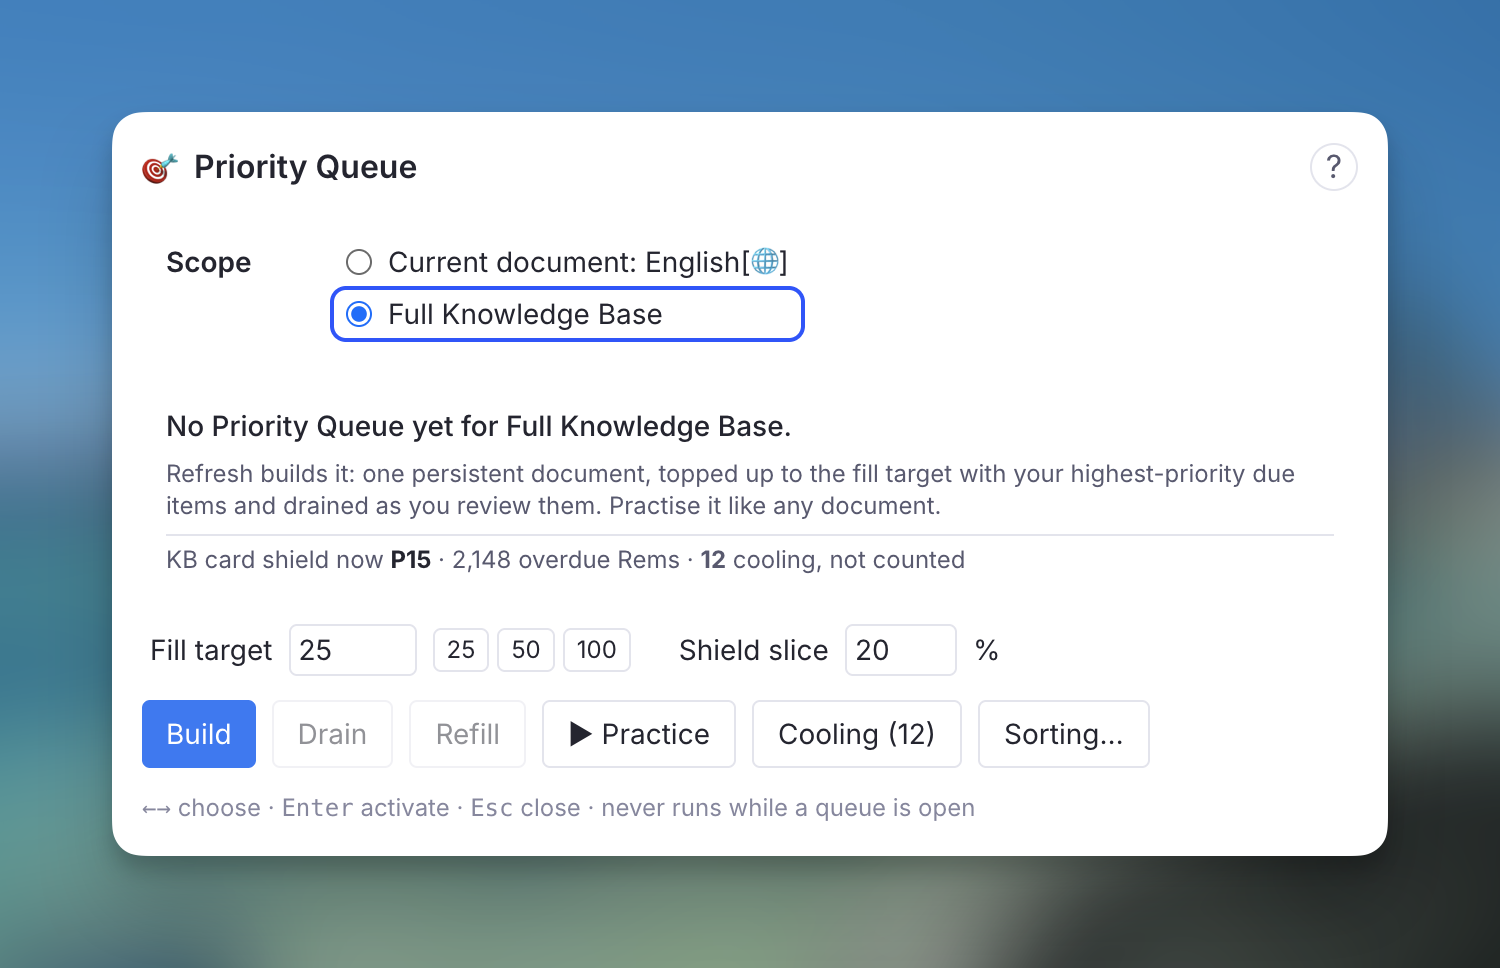
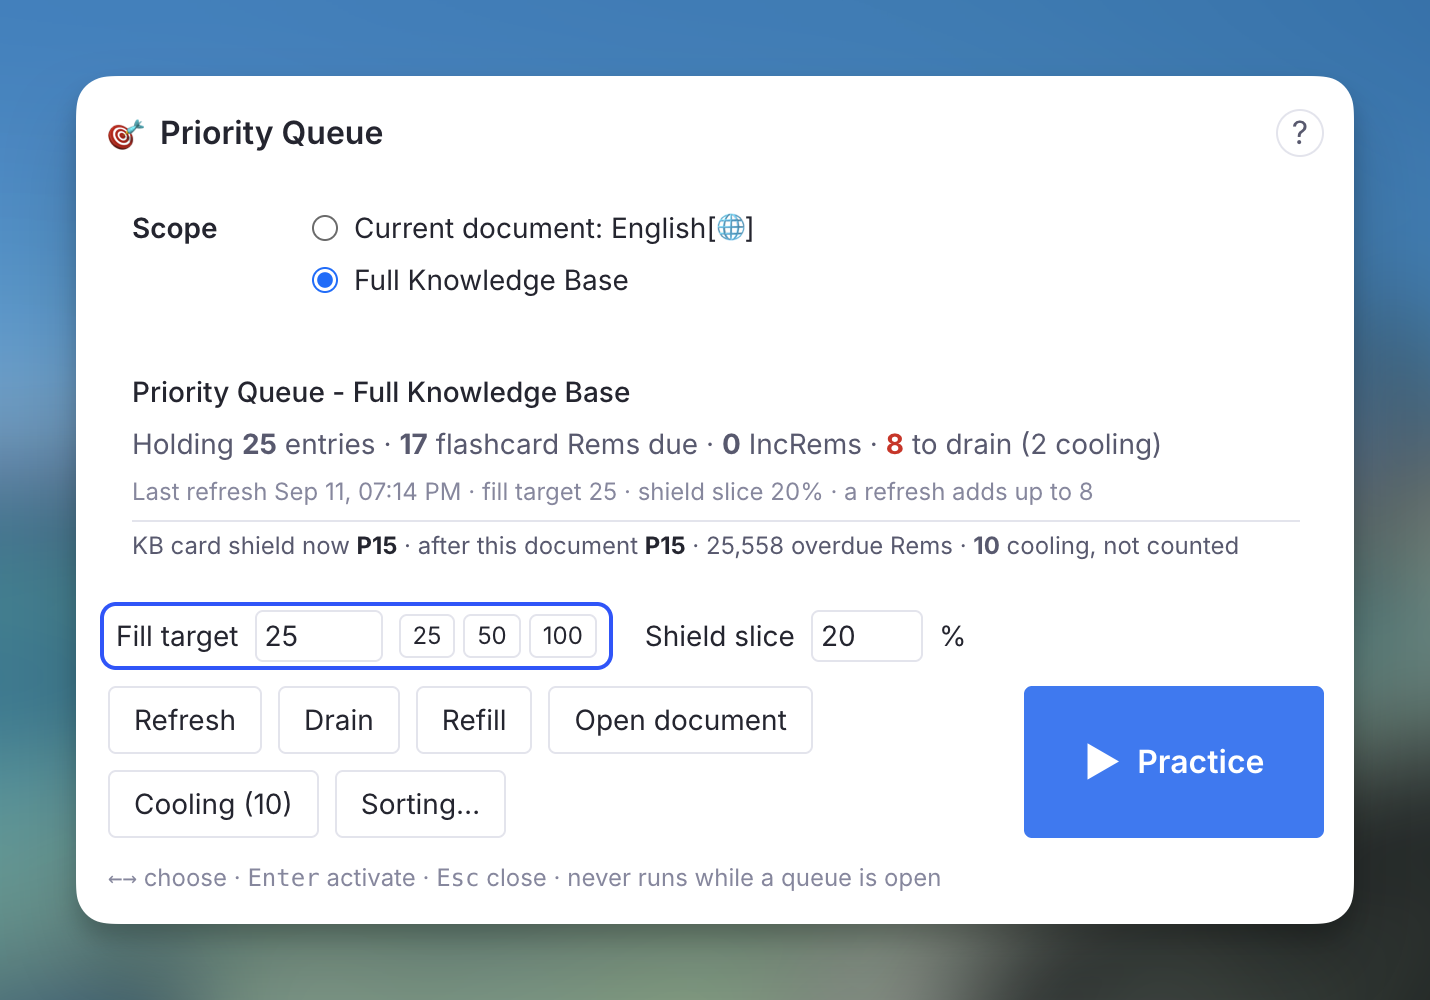
feat(priority-queue): set 'practice' as default action and enhance actions layout in Priority Queue popup

diff --git a/src/widgets/priority_queue_popup.tsx b/src/widgets/priority_queue_popup.tsx
@@ -136,7 +136,8 @@ export function PriorityQueuePopup() {
   const [slicePct, setSlicePct] = useState<number>(Math.round(PRIORITY_QUEUE_SHIELD_SLICE * 100));
   const [result, setResult] = useState<RefreshResult | null>(null);
   const [notice, setNotice] = useState('');
-  const [control, setControl] = useState<Control>('refresh');
+  // Practice is the default action: it is where the daily loop ends up.
+  const [control, setControl] = useState<Control>('practice');
   const [coolingRow, setCoolingRow] = useState(0);
   const [rescanning, setRescanning] = useState(false);
 
@@ -381,9 +382,9 @@ export function PriorityQueuePopup() {
   const controls: Control[] = useMemo(() => {
     const list: Control[] = [];
     if (docScopeAvailable) list.push('scope-doc');
-    list.push('scope-kb', 'burst', 'slice', 'refresh', 'drain', 'refill', 'practice');
+    list.push('scope-kb', 'burst', 'slice', 'refresh', 'drain', 'refill');
     if (status?.exists) list.push('open');
-    list.push('cooling', 'sorting');
+    list.push('cooling', 'sorting', 'practice');
     return list;
   }, [docScopeAvailable, status?.exists]);
 
@@ -705,14 +706,28 @@ export function PriorityQueuePopup() {
   );
 
   const actionsRow = (
-    <div className="flex flex-wrap gap-2">
-      {actionButton('refresh', status?.exists ? 'Refresh' : 'Build', status?.exists ? 'Drain what you reviewed, then top up to the fill target' : 'Create the Priority Queue and fill it', primaryButton, () => runAction('refresh'))}
-      {actionButton('drain', 'Drain', 'Remove reviewed and cooling entries only', secondaryButton, () => runAction('drain'), !status?.exists)}
-      {actionButton('refill', 'Refill', 'Top up to the fill target without draining', secondaryButton, () => runAction('refill'), !status?.exists)}
-      {actionButton('practice', '▶ Practice', 'Open the queue on the Priority Queue document', secondaryButton, () => practice())}
-      {status?.exists && actionButton('open', 'Open document', 'Open the Priority Queue document as a page', secondaryButton, () => openDocument())}
-      {actionButton('cooling', `Cooling${coolingVerdicts.length ? ` (${coolingVerdicts.length})` : ''}`, 'Rems left out because a card that gives their answer away was reviewed recently', secondaryButton, () => { setTab('cooling'); setCoolingRow(0); })}
-      {actionButton('sorting', 'Sorting…', 'Sorting Criteria: randomness and flashcard ratio', secondaryButton, () => plugin.widget.openPopup('sorting_criteria'))}
+    <div className="flex items-stretch gap-3">
+      <div className="flex flex-wrap gap-2 flex-1 min-w-0 content-start">
+        {actionButton('refresh', status?.exists ? 'Refresh' : 'Build', status?.exists ? 'Drain what you reviewed, then top up to the fill target' : 'Create the Priority Queue and fill it', secondaryButton, () => runAction('refresh'))}
+        {actionButton('drain', 'Drain', 'Remove reviewed and cooling entries only', secondaryButton, () => runAction('drain'), !status?.exists)}
+        {actionButton('refill', 'Refill', 'Top up to the fill target without draining', secondaryButton, () => runAction('refill'), !status?.exists)}
+        {status?.exists && actionButton('open', 'Open document', 'Open the Priority Queue document as a page', secondaryButton, () => openDocument())}
+        {actionButton('cooling', `Cooling${coolingVerdicts.length ? ` (${coolingVerdicts.length})` : ''}`, 'Rems left out because a card that gives their answer away was reviewed recently', secondaryButton, () => { setTab('cooling'); setCoolingRow(0); })}
+        {actionButton('sorting', 'Sorting…', 'Sorting Criteria: randomness and flashcard ratio', secondaryButton, () => plugin.widget.openPopup('sorting_criteria'))}
+      </div>
+      {/* The default action, set apart: large, primary, and on the right. */}
+      <button
+        onClick={() => practice()}
+        onMouseEnter={() => setControl('practice')}
+        onMouseDown={(e) => e.preventDefault()}
+        disabled={phase === 'working'}
+        title={status?.exists ? 'Open the queue on the Priority Queue document' : 'Build the Priority Queue, then open the queue on it'}
+        className="px-5 rounded text-base font-semibold shrink-0 flex items-center justify-center gap-2"
+        style={{ ...primaryButton, minWidth: 150, minHeight: 56, ...(phase === 'working' ? disabledStyle : {}), ...ring('practice') }}
+      >
+        <span style={{ fontSize: 20 }}>▶</span>
+        <span>Practice</span>
+      </button>
     </div>
   );
 
